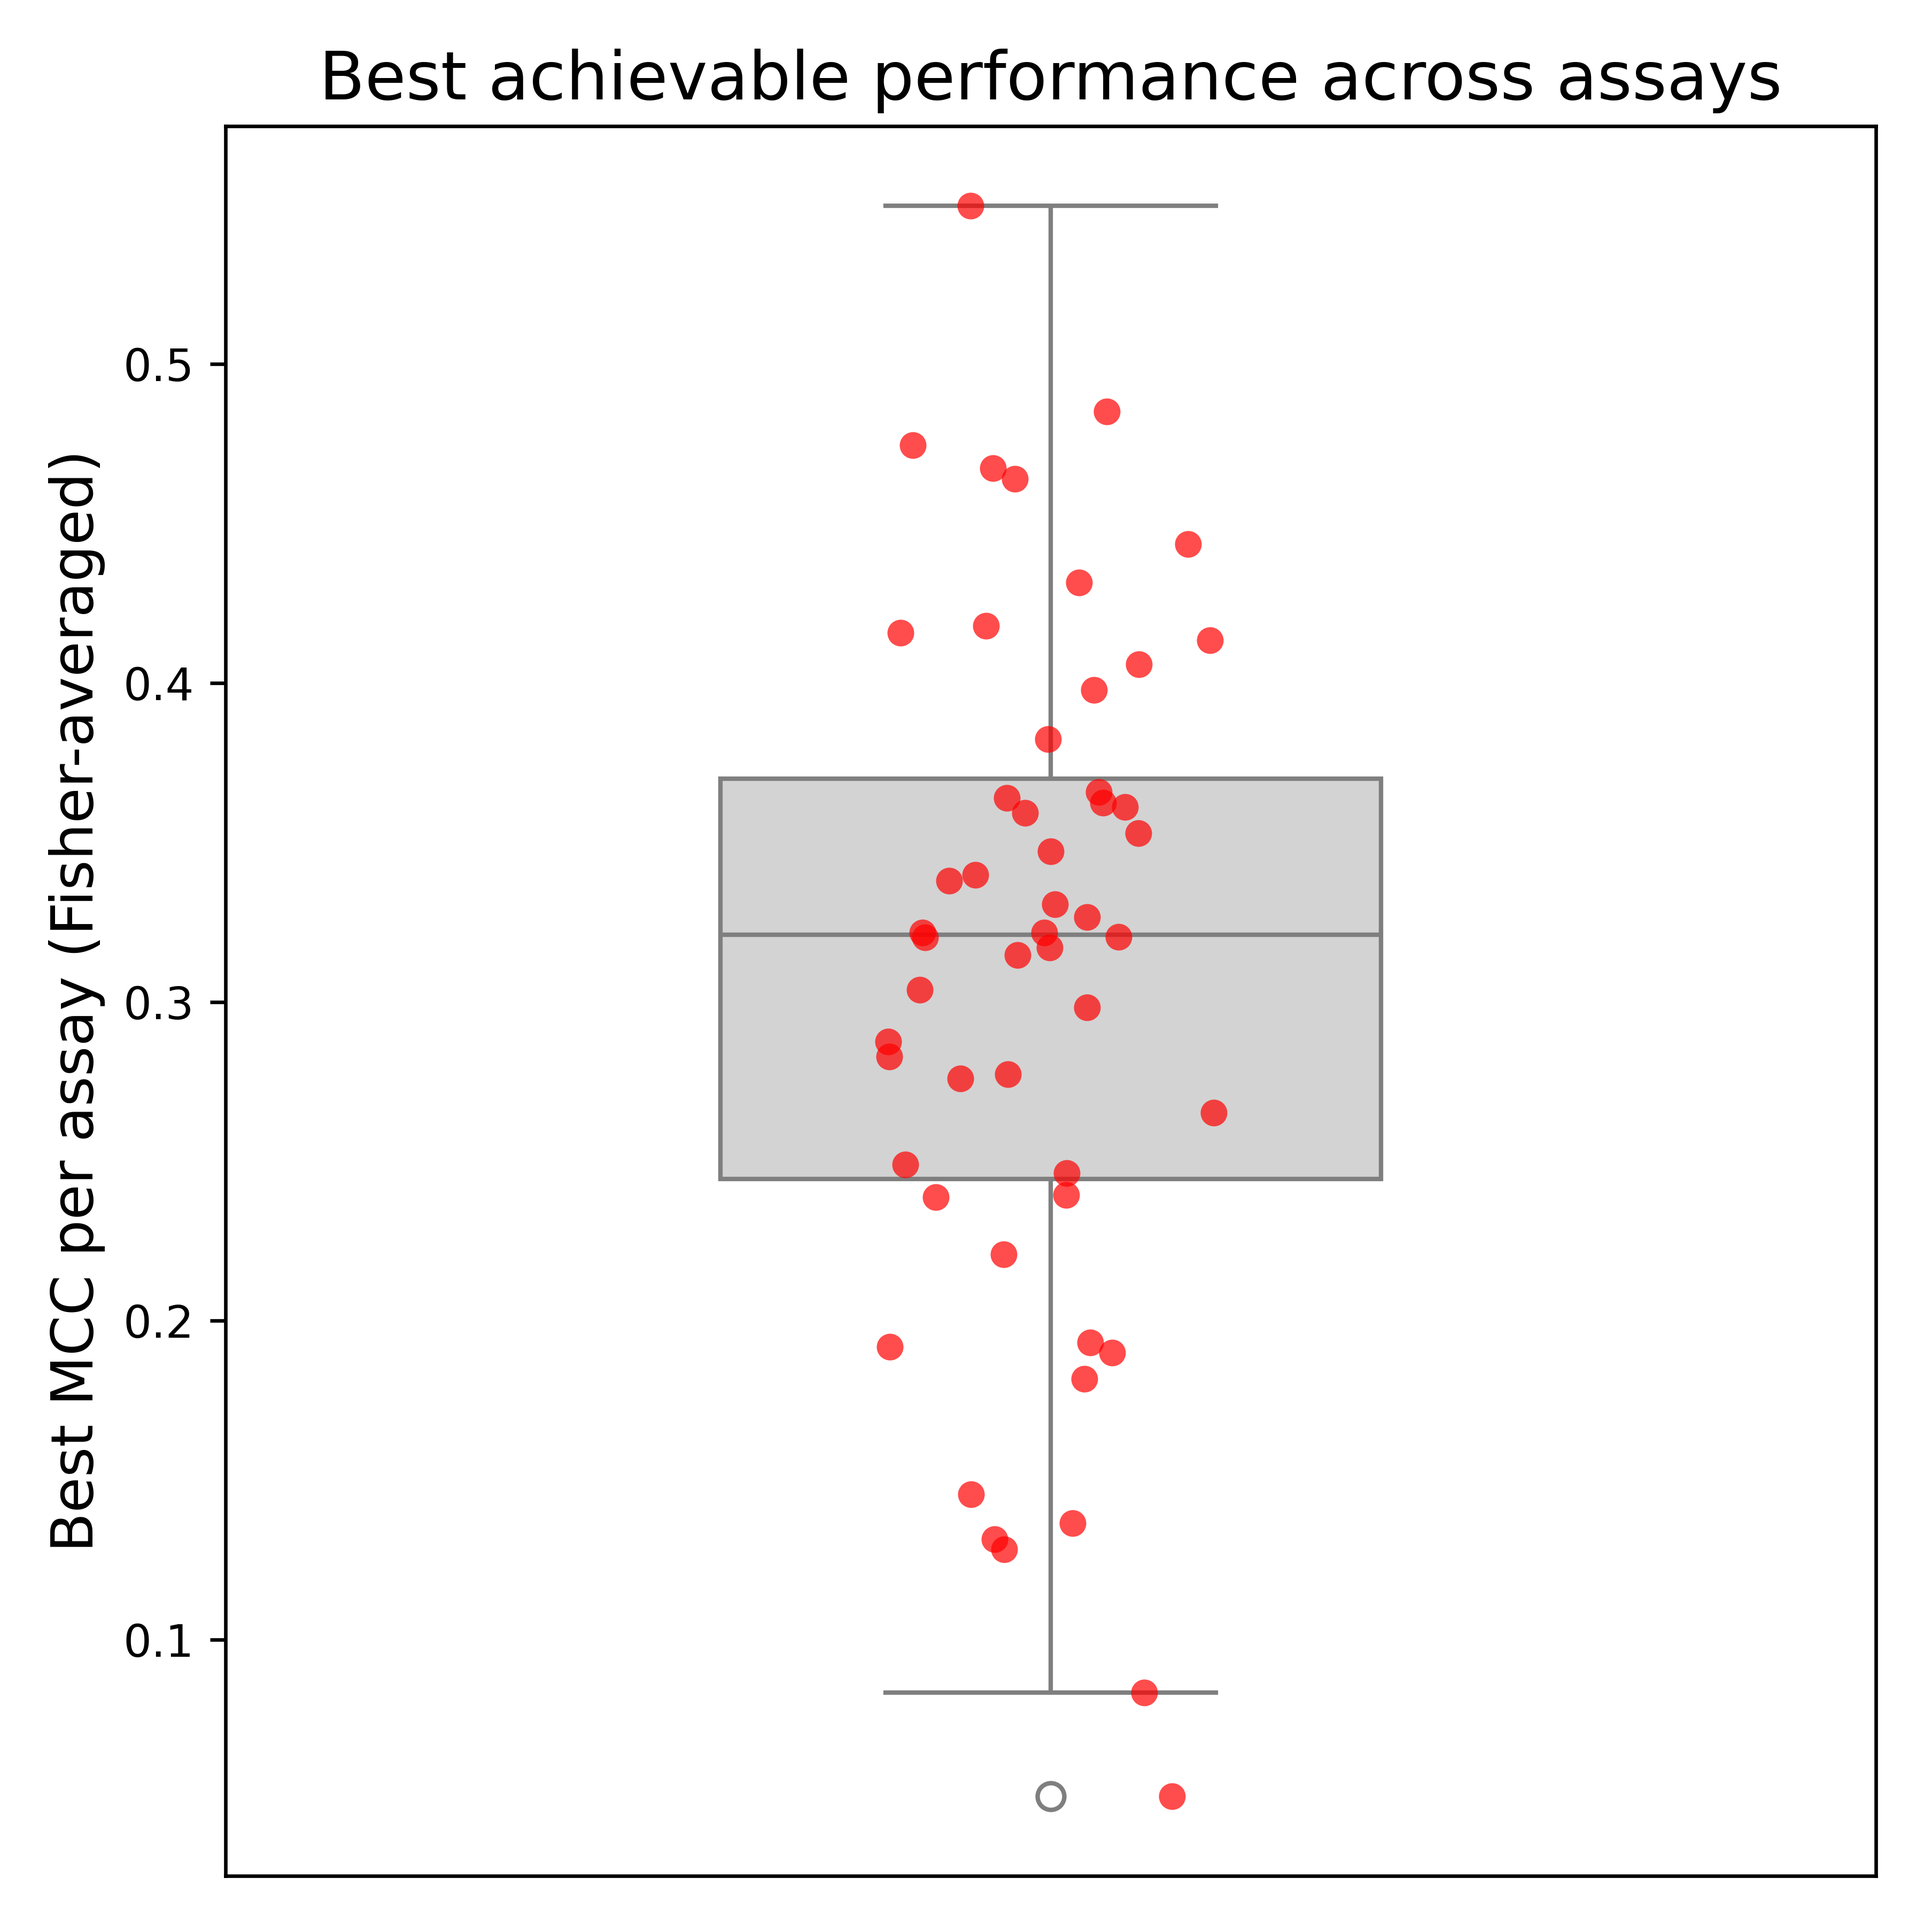
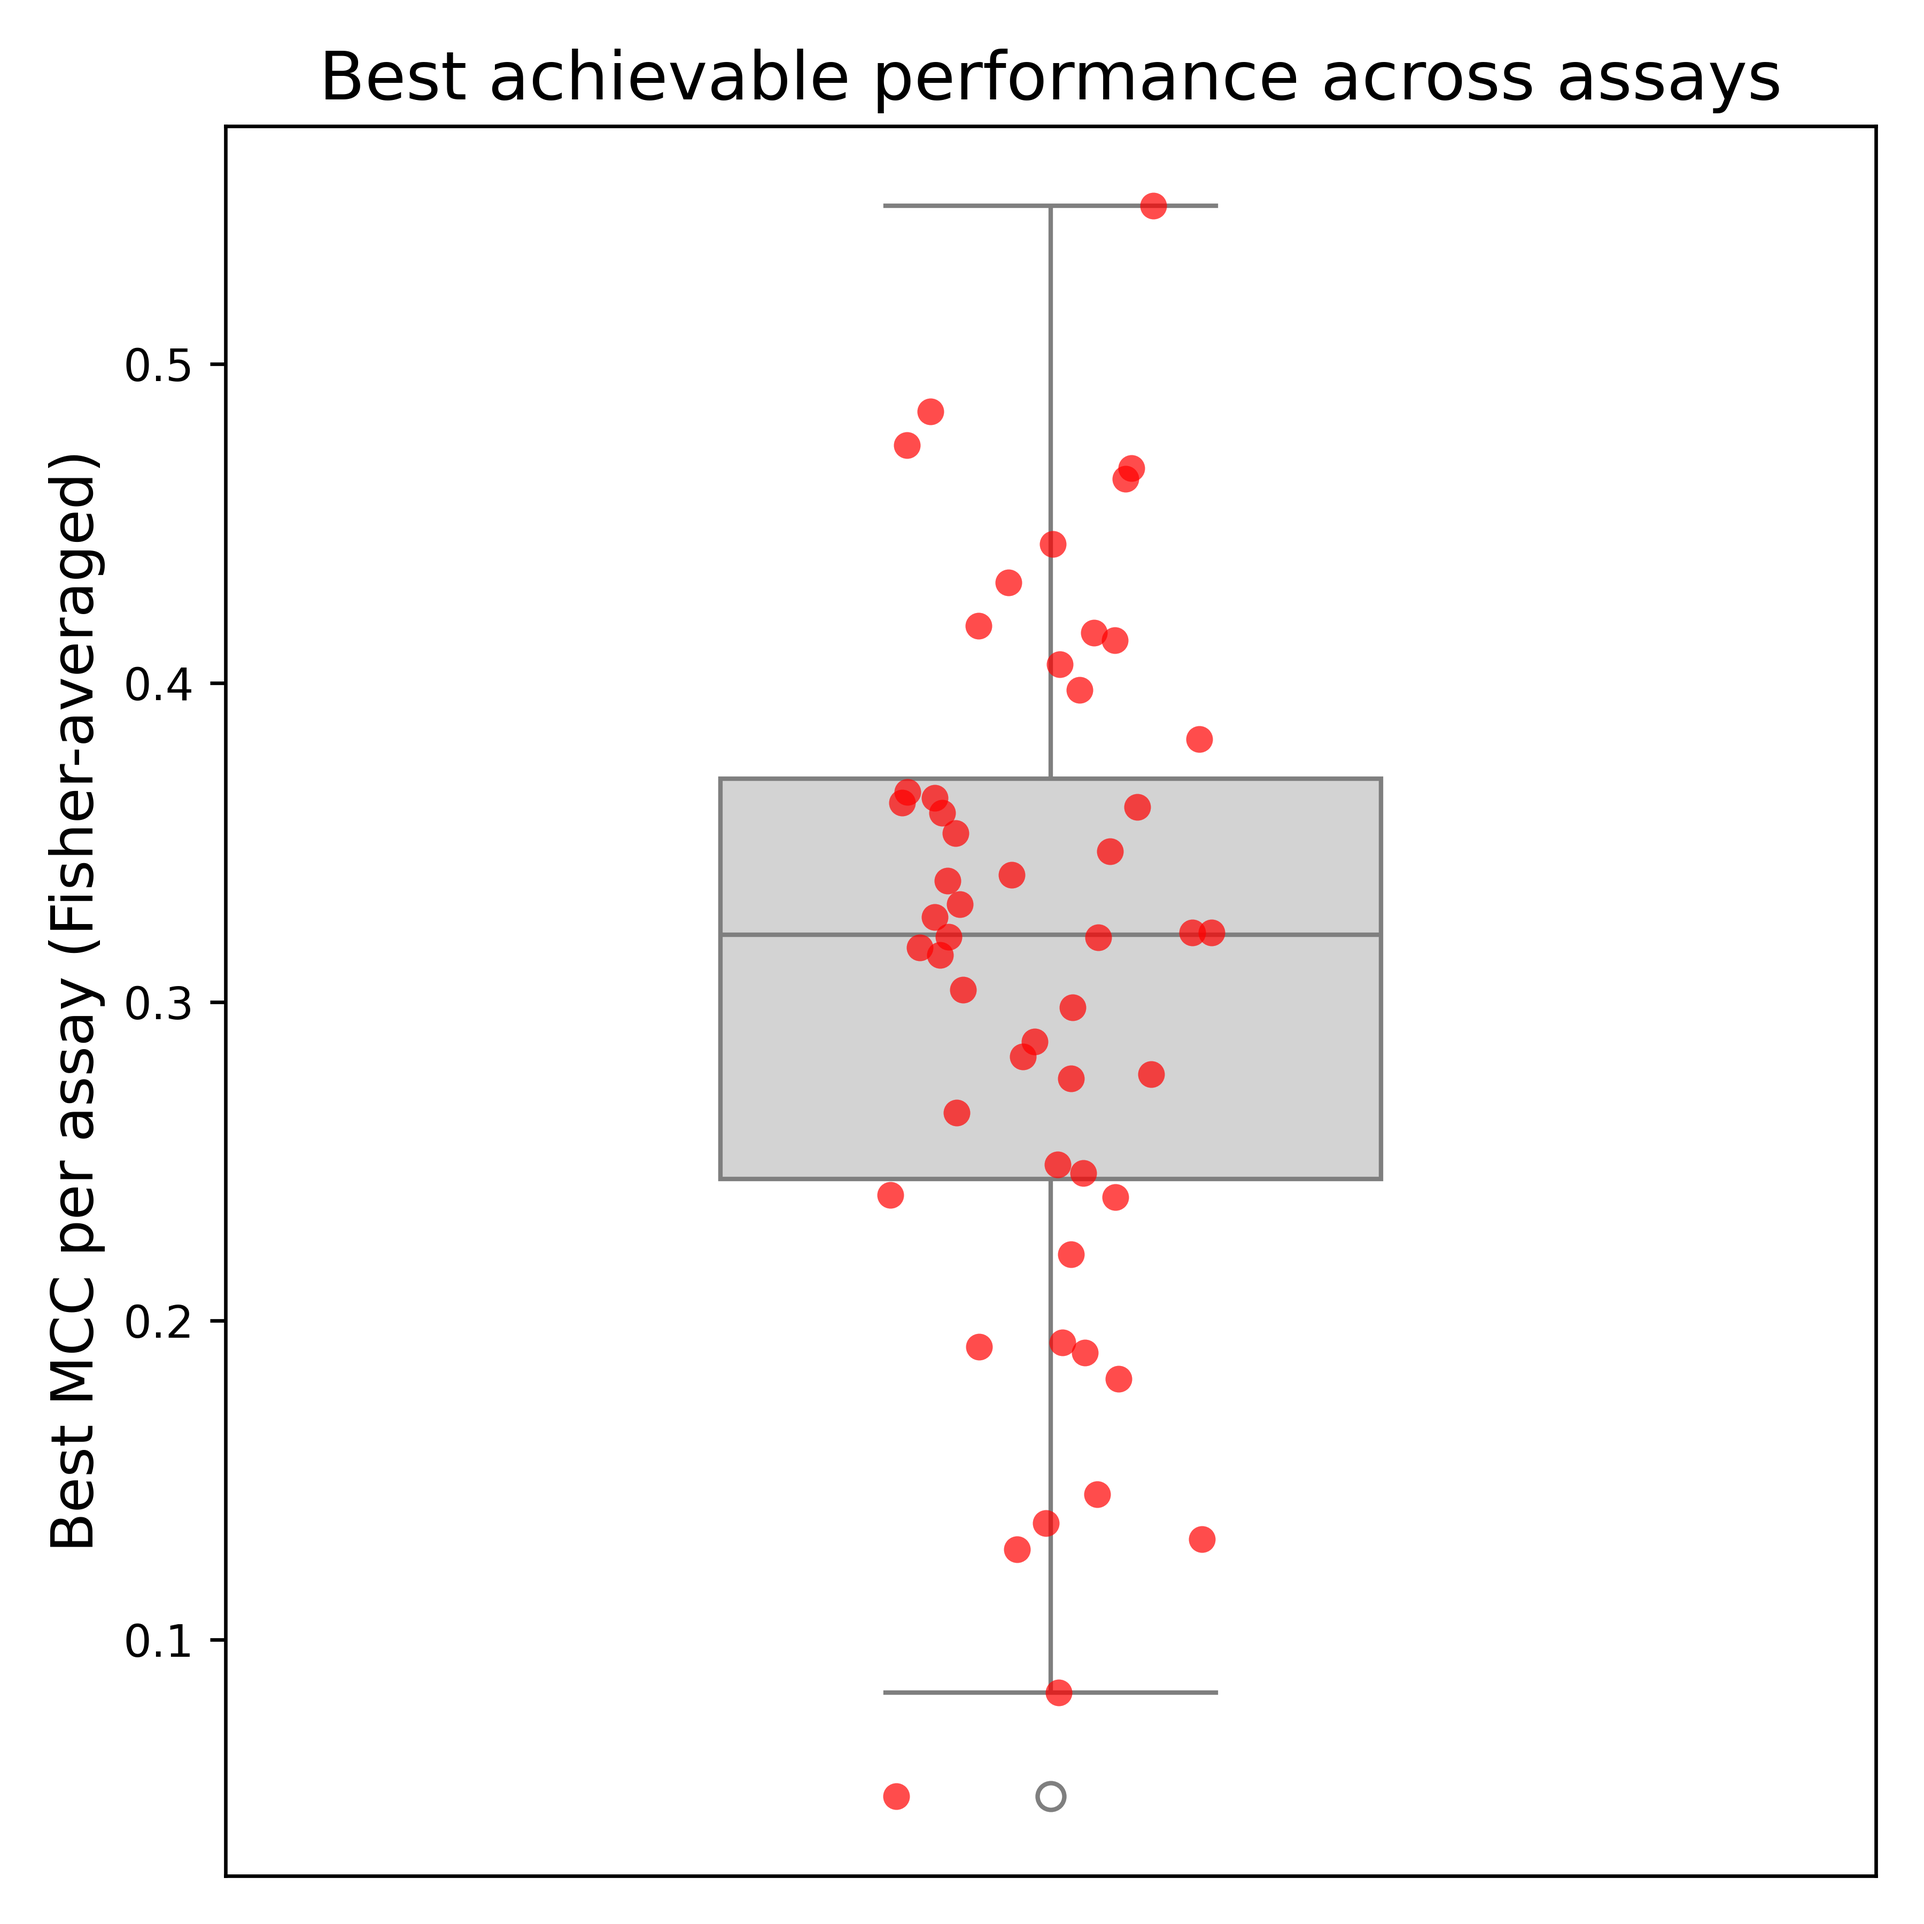
performance versus silhouette score

diff --git a/evaluation/performance_versus_compound_similarity.py b/evaluation/performance_versus_compound_similarity.py
@@ -1,0 +1,130 @@
+import pandas as pd
+import os
+import numpy as np
+from sklearn.metrics import silhouette_score, pairwise_distances
+import matplotlib.pyplot as plt
+import seaborn as sns
+#from scipy.spatial.distance import rogerstanimoto
+import warnings
+warnings.filterwarnings(action='ignore')
+
+def main():
+    #assays_with_best_performances = pd.read_csv('assays_with_best_performance.csv', sep = '\t')
+    assays_with_best_performances = pd.read_csv('assays_average_silhouette_score.csv', sep = '\t')
+    '''morgan_fingerprints = pd.read_csv('../model_inputs/morgan.csv', sep = '\t', index_col = 0)
+    assays_with_best_performances['average silhouette score'] = [None for _ in range(len(assays_with_best_performances))]
+    assays_with_best_performances['average train-test distance'] = [None for _ in range(len(assays_with_best_performances))]
+    for assay_name in assays_with_best_performances["assay"].unique():
+        
+        subfolders = ['steroidal', 'androgens', 'estrogens', 'glucocorticoids', 'progestagens']
+
+        for subfolder in subfolders:
+            input_directory = f'../model_inputs/{subfolder}/'
+            content = os.listdir(input_directory)
+            if assay_name in content:
+                silhouette_scores = []
+                dist = []
+                for fold in range(5):
+                    with open(f'../model_inputs/{subfolder}/{assay_name}/fold{fold}/train.txt', 'r') as train_file:
+                        train_compounds = train_file.read().splitlines()
+                    with open(f'../model_inputs/{subfolder}/{assay_name}/fold{fold}/train.txt', 'r') as test_file:
+                        test_compounds = test_file.read().splitlines()
+                    X = morgan_fingerprints.loc[np.concatenate([train_compounds, test_compounds]), :]
+                    labels = ['train' for _ in range(len(train_compounds))]
+                    labels = np.concatenate([labels, ['test' for _ in range(len(test_compounds))]])
+                    score = silhouette_score(X = X, labels=labels, metric='jaccard', sample_size=None, random_state=42)
+                    distances = pairwise_distances(X = morgan_fingerprints.loc[train_compounds, :].values, Y =morgan_fingerprints.loc[test_compounds, :].values, metric='jaccard', n_jobs=-1 )
+                    d = np.average(distances)
+                    dist.append(d)
+                    silhouette_scores.append(score)
+                average_silhouette_score = np.average(silhouette_scores)
+                average_distance = np.average(dist)
+                print(f'{assay_name}: {average_silhouette_score}, {average_distance}')
+                assays_with_best_performances.loc[assays_with_best_performances['assay'] == assay_name, 'average silhouette score'] = average_silhouette_score
+                assays_with_best_performances.loc[assays_with_best_performances['assay'] == assay_name, 'average train-test distance'] = average_distance
+    assays_with_best_performances.to_csv('assays_average_silhouette_score.csv', sep = '\t', index = False)
+ '''   
+    plt.figure(figsize=(7, 6))
+    
+    sns.scatterplot(
+        data=assays_with_best_performances,
+        x="average silhouette score",
+        y="mcc_avg",
+        s=70,
+        color="red",
+        edgecolor="black"
+    )
+    
+    # regression line
+    sns.regplot(
+        data=assays_with_best_performances,
+        x="average silhouette score",
+        ci = None,
+        y="mcc_avg",
+        scatter=False,
+        color="blue",
+        line_kws={"linewidth": 2}
+    )
+    
+    # correlation
+    corr = assays_with_best_performances["average silhouette score"].corr(assays_with_best_performances["mcc_avg"])
+    plt.text(
+        0.05, 0.95,
+        f"r = {corr:.2f}",
+        transform=plt.gca().transAxes,
+        fontsize=11,
+        verticalalignment="top"
+    )
+    
+    plt.xlabel("Average silhouette score across CV folds", fontsize=13)
+    plt.ylabel("Best MCC (Fisher-averaged)", fontsize=13)
+    plt.title("Best performance vs average silhouette score", fontsize=15)
+    
+    plt.grid(alpha=0.3)
+    plt.tight_layout()
+    plt.savefig(f'../plotting_results/performance_vs_silhouette.png')
+    plt.clf()
+    
+    plt.figure(figsize=(7, 6))
+    
+    sns.scatterplot(
+        data=assays_with_best_performances,
+        x="average train-test distance",
+        y="mcc_avg",
+        s=70,
+        color="red",
+        edgecolor="black"
+    )
+    
+    # regression line
+    sns.regplot(
+        data=assays_with_best_performances,
+        x="average train-test distance",
+        ci = None,
+        y="mcc_avg",
+        scatter=False,
+        color="blue",
+        line_kws={"linewidth": 2}
+    )
+    
+    # correlation
+    corr = assays_with_best_performances["average train-test distance"].corr(assays_with_best_performances["mcc_avg"])
+    plt.text(
+        0.05, 0.95,
+        f"r = {corr:.2f}",
+        transform=plt.gca().transAxes,
+        fontsize=11,
+        verticalalignment="top"
+    )
+    
+    plt.xlabel("Average train-test distance across CV folds", fontsize=13)
+    plt.ylabel("Best MCC (Fisher-averaged)", fontsize=13)
+    plt.title("Best performance vs average distance", fontsize=15)
+    
+    plt.grid(alpha=0.3)
+    plt.tight_layout()
+    plt.savefig(f'../plotting_results/performance_vs_distance.png')
+    
+    
+if __name__=='__main__':
+    main()

diff --git a/evaluation/compare_each_combination_individually.py b/evaluation/compare_each_combination_individually.py
@@ -21,7 +21,7 @@ def get_best_per_assay(df_avg):
     best = df_avg.loc[
         df_avg.groupby("assay")["mcc_avg"].idxmax()
     ].copy()
-    
+    best.to_csv('assays_with_best_performance.csv', sep = '\t', index = False)
     return best
 
 
